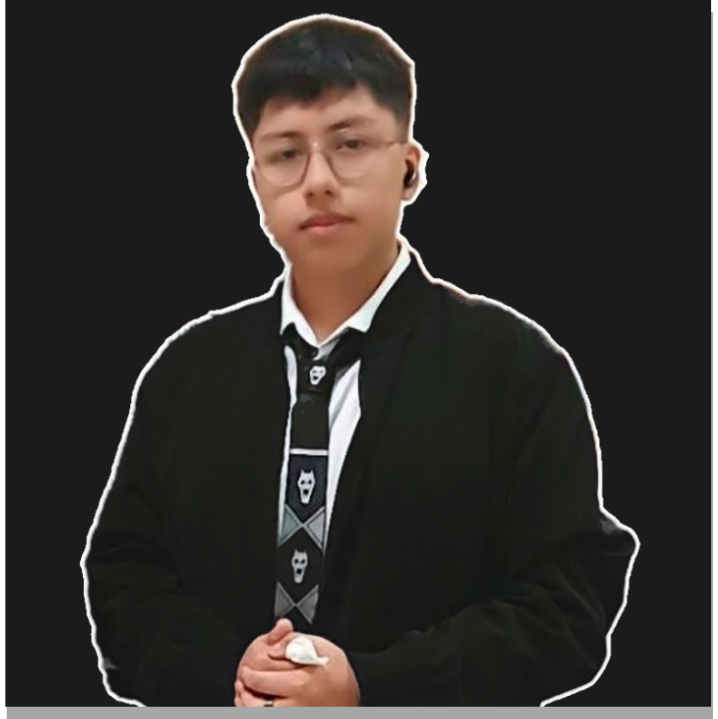
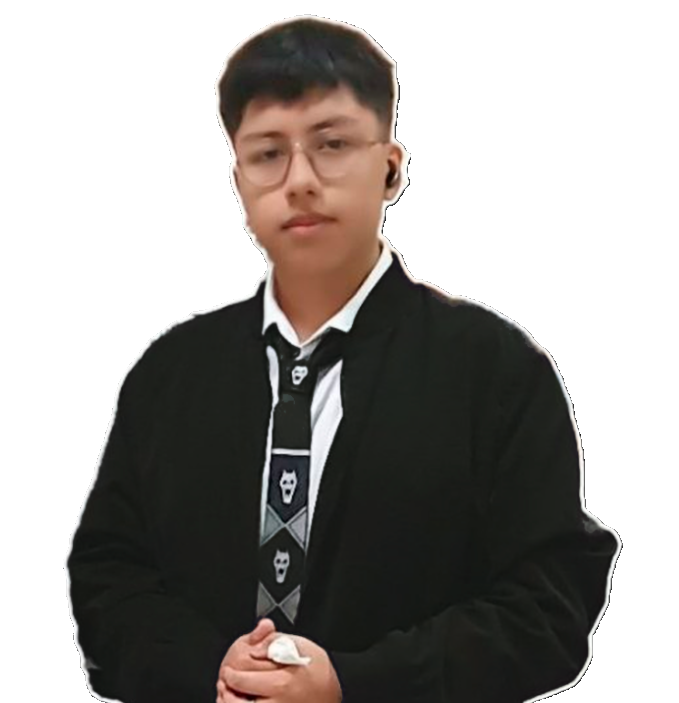
event change & background images removed

diff --git a/View/NexTech.css b/View/NexTech.css
@@ -191,7 +191,6 @@ body {
     padding: 0;
     display: flex;
     flex-direction: column;
-    background-color: rgb(255, 110, 110);
 }
 
 
@@ -347,7 +346,8 @@ section .section {
     background-size: 200%;
     background-position: 50% 50%;
     background-attachment: scroll;
-    background-color: #ffb4be;
+    background-color: #ffb4be ; 
+    
     /*
     background: rgb(246, 91, 247);
     background: linear-gradient(24deg, rgba(246, 91, 247, 1) 20%, rgba(42, 255, 178, 0.7002450638458508) 50%, rgba(156, 78, 250, 1) 80%);
@@ -1507,9 +1507,9 @@ section .section .body {
 }
 
 .linea {
-    width: 10px;
-    background-color: #ccc;
-    margin: 0;
+    width: 1px;
+    background-color: rgba(255, 255, 255, 50%);
+    margin: 5;
     align-self: stretch;
     position: relative;
 }
@@ -1579,6 +1579,7 @@ section .section .about_us {
                 align-content: center;
 
                 img {
+                    border-radius: 15% 10%;
                     width: 450px;
                 }
             }
